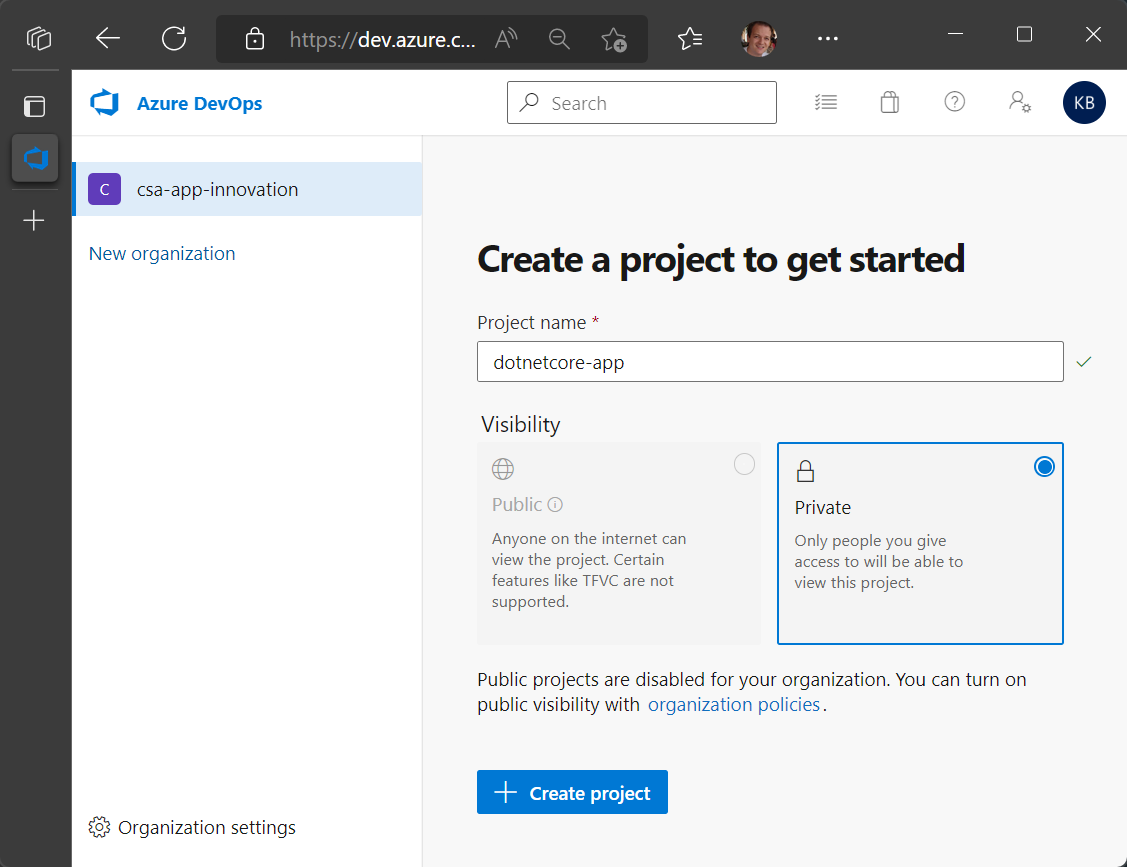
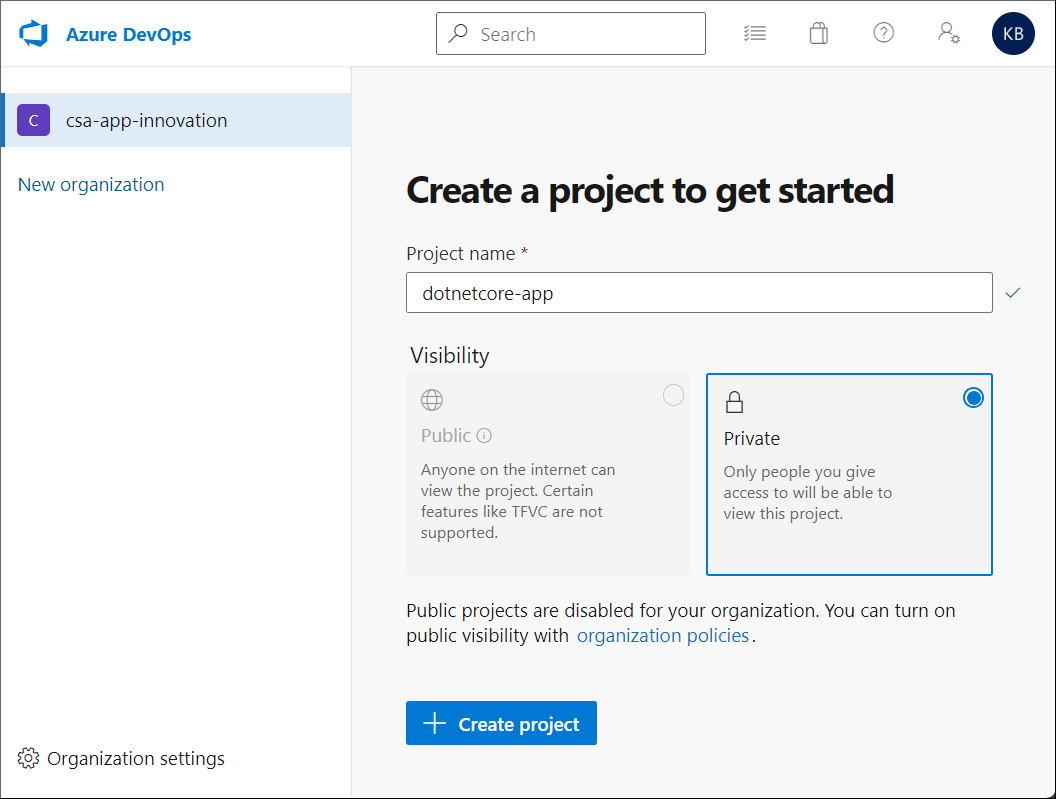
Images resize

diff --git a/README.md b/README.md
@@ -1,4 +1,4 @@
-# Azure DevOps Self-hosted agent
+# Azure DevOps Self-hosted agents
 
 An agent that you set up and manage on your own to run jobs is a self-hosted agent.
 
@@ -13,11 +13,11 @@ Sign up for an Azure DevOps organization and Azure Pipelines to begin managing C
 
 1. Log into your Microsoft account.
 
-   ![Microsoft Account](/images/microsoft_account.png)
+   <img src="./images/ado-microsoft_account.png" width="350">
 
 2. Enter a name for your organization, select a host location from the drop-down menu, enter the characters you see, and then select **Continue**.
 
-   ![Create ADO Organization](/images/ado-organization.png)
+   <img src="./images/ado-organization.png" width="350">
 
    > Use the following URL to sign in to your organization at any time: https://dev.azure.com/{yourorganization}
 
@@ -45,6 +45,7 @@ This article describes how to [Create the Azure DevOps Agent](https://learn.micr
 - [Self-hosted agents on Kubernetes](#self-hosted-agents-on-kubernetes)
 
 
+<br><br>
 ### Self-hosted agents on **Docker**
 
 To be successful and get the most of this section, you are encouraged to have the [Docker Runtime](https://docs.docker.com/docker-for-windows/install/) ready.
@@ -54,27 +55,25 @@ To be successful and get the most of this section, you are encouraged to have th
 
 1. Go to your organization and select **Organization settings**.
 
-   ![ADO Organization Settings](/images/ado-organization_settings.png)
+   ![ADO Organization Settings](/images/docker-organization_settings.png)
 
 2. Select **Agent pools** in the left panel under **Pipelines**.
 
-   ![ADO Organization Settings Agent pools](/images/ado-organization_settings_agent_pools.png)
+   ![ADO Organization Settings Agent pools](/images/docker-organization_settings-agent_pools.png)
 
 3. Select **Add pool**.
 
-4. Select **Self-hosted** for **Pool type**, type **Docker** as the **Name** of the agent pool and select **Create**.
+4. Select **Self-hosted** for **Pool type**, type **Docker-pool** as the **Name** of the agent pool and select **Create**.
 
-   ![ADO Organization Settings Add Agent pools](/images/ado-organization_settings_agent_pools-add.png)
+   <img src="./images/docker-organization_settings-agent_pools-add.png" width="350">
 
-5. See the agent pool **Docker**.
+5. Create in your machine a directory of your choice and navigate into it.
 
-   ![ADO Agent Pool Docker](/images/ado-agent_pool-docker.png)
+   > Picture for example only.
 
-6. Create a directory of your choice and navigate into it.
+   ![Doker dir](/images/docker-local_dir.png)
 
-   ![Doker dir](/images/ado-agent_pool-docker-dir.png)
-
-7. Save the following content to file **```Dockerfile```**.
+6. Save the following content to file **```Dockerfile```**.
 
     ```
     FROM ubuntu:20.04
@@ -105,7 +104,7 @@ To be successful and get the most of this section, you are encouraged to have th
     ENTRYPOINT [ "./start.sh" ]
     ```
 
-8. Save the following content to file **```start.sh```**.
+7. Save the following content to file **```start.sh```**.
 
     ```
     #!/bin/bash
@@ -204,49 +203,49 @@ To be successful and get the most of this section, you are encouraged to have th
     ./run-docker.sh "$@" & wait $!
     ```
 
-9. Build the container with the ADO agent software.
+8. Build the container and push it into a Container Registry repository of your choice.
 
+   ```console
+   docker build -t kledsonhugo/adoagent:latest .
+   docker push kledsonhugo/adoagent:latest
+   ```
 
-    ```console
-    docker build -t adoagent-docker:latest .
-    ```
+   > **Warning**
 
-10. Run the container.
+   > Replace ```kledsonhugo``` by your Container Registry account.
 
-    ```console
-    docker run \
-    -e AZP_URL=$AZP_URL \
-    -e AZP_TOKEN=$AZP_TOKEN \
-    -e AZP_POOL=Docker \
-    adoagent-docker:latest
-    ```
+9. Run the container.
 
-    > **Warning**
+   ```console
+   docker run \
+   -e AZP_URL=$AZP_URL \
+   -e AZP_TOKEN=$AZP_TOKEN \
+   -e AZP_POOL=Docker-pool \
+   kledsonhugo/adoagent:latest
+   ```
 
-    > You need to control your ADO url and token using environment variables.
+   > **Warning**
 
-    > Command above is for example only. Replace with proper values.
+   > You need replace ```$AZP_URL``` and ```$AZP_TOKEN``` with your ADO url and token.
 
-    | Env Var | Description |
-    |----------|---------------|
-    | `AZP_URL` | The URL of the Azure DevOps or Azure DevOps Server instance. |
-    | `AZP_TOKEN` | [Personal Access Token](https://learn.microsoft.com/en-us/azure/devops/organizations/accounts/use-personal-access-tokens-to-authenticate?view=azure-devops&amp%3Btabs=Windows&tabs=Windows) (PAT) with Agent Pools (read, manage) scope, created by a user who has permission to configure agents, at AZP_URL. |
+   > Replace ```kledsonhugo``` by your Container Registry account.
 
-17. Validate if the container agent is connected.
+   | Env Var | Description |
+   |----------|---------------|
+   | `AZP_URL` | The URL of the Azure DevOps or Azure DevOps Server instance. |
+   | `AZP_TOKEN` | [Personal Access Token](https://learn.microsoft.com/en-us/azure/devops/organizations/accounts/use-personal-access-tokens-to-authenticate?view=azure-devops&amp%3Btabs=Windows&tabs=Windows) (PAT) with Agent Pools (read, manage) scope, created by a user who has permission to configure agents, at AZP_URL. |
 
-    ![ADO agent listening](/images/ado-agent_pool-docker-run-listening.png)
+10. Go to your **Organization settings**, select **Agent pools** and select **Docker-pool**.
 
-18. Go to your **Organization settings**, select **Agent pools** and select **Docker**.
+11. You should now see your Docker containers connected in the **Agents** menu.
 
-19. You should now see your Kubernetes pods connected in the **Agents** menu.
+    ![ADO agent pool with connected agent](/images/docker-agents_connected.png)
 
-    ![ADO agent pool with connected agent](/images/ado-agent_pool-docker-connected_agent.png)
-
-20. You can start more container agents as needed.
+    > You can run multiple containers in paralel as you want. In the picture there are 2 running as example.
 
 </details>
 
-
+<br><br>
 ### Self-hosted agents on **Kubernetes**
 
 A [Kubernetes](https://kubernetes.io/docs/tasks/tools/) active software is required to perform this setion.
@@ -256,27 +255,25 @@ A [Kubernetes](https://kubernetes.io/docs/tasks/tools/) active software is requi
 
 1. Go to your organization and select **Organization settings**.
 
-   ![ADO Organization Settings](/images/ado-organization_settings.png)
+   ![ADO Organization Settings](/images/docker-organization_settings.png)
 
 2. Select **Agent pools** in the left panel under **Pipelines**.
 
-   ![ADO Organization Settings Agent pools](/images/ado-organization_settings_agent_pools.png)
+   ![ADO Organization Settings Agent pools](/images/docker-organization_settings-agent_pools.png)
 
 3. Select **Add pool**.
 
-4. Select **Self-hosted** for **Pool type**, type **Kubernetes** as the **Name** of the agent pool and select **Create**.
+4. Select **Self-hosted** for **Pool type**, type **Kubernetes-pool** as the **Name** of the agent pool and select **Create**.
 
-   ![ADO Organization Settings Add Agent pools](/images/ado-organization_settings_agent_pools-add-kubernetes.png)
+   <img src="./images/kubernetes-organization_settings-agent_pools-add.png" width="350">
 
-5. See the agent pool **Kubernetes**.
+5. Create in your machine a directory of your choice and navigate into it.
 
-   ![ADO Agent Pool Docker](/images/ado-agent_pool-kubernetes.png)
+   > Picture for example only.
 
-6. Create a directory of your choice and navigate into it.
+   ![Doker dir](/images/kubernetes-local_dir.png)
 
-   ![Kubernetes dir](/images/ado-agent_pool-kubernetes-dir.png)
-
-7. Save the following content to file **```Dockerfile```**.
+6. Save the following content to file **```Dockerfile```**.
 
     ```
     FROM ubuntu:20.04
@@ -307,7 +304,7 @@ A [Kubernetes](https://kubernetes.io/docs/tasks/tools/) active software is requi
     ENTRYPOINT [ "./start.sh" ]
     ```
 
-8. Save the following content to file **```start.sh```**.
+7. Save the following content to file **```start.sh```**.
 
     ```
     #!/bin/bash
@@ -406,86 +403,76 @@ A [Kubernetes](https://kubernetes.io/docs/tasks/tools/) active software is requi
     ./run-docker.sh "$@" & wait $!
     ```
 
-9. Build the container with the ADO agent software.
+8. Build the container and push it into a Container Registry repository of your choice.
 
+   ```console
+   docker build -t kledsonhugo/adoagent:latest .
+   docker push kledsonhugo/adoagent:latest
+   ```
 
-    ```console
-    docker build -t adoagent-kubernetes:latest .
-    ```
+   > **Warning**
 
-10. Tag and push the container image into a Container Registry repository of your choice. We are using Docker Hub here. Feel free to use yours.
+   > Replace ```kledsonhugo``` by your Container Registry account.
 
-    ```console
-    docker image tag adoagent-kubernetes:latest kledsonhugo/adoagent-kubernetes:latest
-    docker push kledsonhugo/adoagent-kubernetes:latest
-    ```
-    > **Warning**
+9. Save the following content to file **```deployment.yml```**.
 
-    > Replace the Docker Hub account ```kledsonhugo``` by your Container Registry account.
+   ```
+   apiVersion: apps/v1
+   kind: Deployment
+   metadata:
+   name: adoagent-deployment
+   spec:
+   selector:
+       matchLabels:
+       app: adoagent
+   replicas: 2
+   template:
+       metadata:
+       labels:
+           app: adoagent
+       spec:
+       containers:
+       - name: adoagent
+           image: kledsonhugo/adoagent:latest
+           env:
+           - name: AZP_URL
+             value: https://dev.azure.com/csu-csa-appinnovation
+           - name: AZP_TOKEN
+             value: XXXXXXXXXXXXXXXXXXXXXXXXXXXXX
+           - name: AZP_POOL
+             value: Kubernetes-pool
+   ```
 
-11. Save the following content to file **```deployment.yml```**.
+   > **Warning**
 
-    ```
-    apiVersion: apps/v1
-    kind: Deployment
-    metadata:
-    name: adoagent-deployment
-    spec:
-    selector:
-        matchLabels:
-        app: adoagent
-    replicas: 2
-    template:
-        metadata:
-        labels:
-            app: adoagent
-        spec:
-        containers:
-        - name: adoagent
-            image: kledsonhugo/adoagent-kubernetes:latest
-            env:
-            - name: AZP_URL
-            value: https://dev.azure.com/csa-app-innovation
-            - name: AZP_TOKEN
-            value: XXXXXXXXXXXXXXXXXXXXXXXXXXXXX
-            - name: AZP_POOL
-            value: Kubernetes
-    ```
+   > You need replace the var values for ```$AZP_URL``` and ```$AZP_TOKEN``` with your ADO url and token.
 
-    > **Warning**
+   > Replace ```kledsonhugo``` by your Container Registry account.
 
-    > You need to control your Azure ADO url and token using environment variables.
+   | Env Var | Description |
+   |----------|---------------|
+   | `AZP_URL` | The URL of the Azure DevOps or Azure DevOps Server instance. |
+   | `AZP_TOKEN` | [Personal Access Token](https://learn.microsoft.com/en-us/azure/devops/organizations/accounts/use-personal-access-tokens-to-authenticate?view=azure-devops&amp%3Btabs=Windows&tabs=Windows) (PAT) with Agent Pools (read, manage) scope, created by a user who has permission to configure agents, at AZP_URL. |
 
-    > Replace file content with proper values.
-
-    | Env Var | Description |
-    |----------|---------------|
-    | `AZP_URL` | The URL of the Azure DevOps or Azure DevOps Server instance. |
-    | `AZP_TOKEN` | [Personal Access Token](https://learn.microsoft.com/en-us/azure/devops/organizations/accounts/use-personal-access-tokens-to-authenticate?view=azure-devops&amp%3Btabs=Windows&tabs=Windows) (PAT) with Agent Pools (read, manage) scope, created by a user who has permission to configure agents, at AZP_URL. |
-
-12. Deploy the Kubernetes pods.
+10. Deploy the Kubernetes pods.
 
     ```console
     kubectl apply -f deployment.yml
     ```
 
-13. Validate if the Kubernetes pods are running.
+11. Validate if the Kubernetes pods are running with command ```kubectl get pods -o wide```.
 
-    ![ADO agent running](/images/ado-agent_pool-kubernetes-running.png)
+    ![ADO agent running](/images/kubernetes-pods_running.png)
 
-14. Validate if the ADO agent is listening inside the Kubernetes pods.
+12. Go to your **Organization settings**, select **Agent pools** and select **Kubernetes-pool**.
 
-    ![ADO agent connected](/images/ado-agent_pool-kubernetes-connected.png)
+12. You should now see your Kubernetes pods connected in the **Agents** menu.
 
-15. Go to your **Organization settings**, select **Agent pools** and select **Kubernetes**.
+    ![ADO agent connected](/images/kubernetes-agents_connected.png)
 
-16. You should now see your container agent connected in the **Agents** menu.
+    > You can run multiple pods as you want. In the picture there are 2 online as example only.
 
-    ![ADO agent pool with connected agent](/images/ado-agent_pool-kubernetes-connected_agent.png)
-
-17. You can scale the Kubernetes pods as needed.
 </details>
-
 
 <br><br>
 ## Create project pipeline for Self-hosted agents
@@ -502,11 +489,11 @@ Microsoft Learn allows [Create a build pipeline with Azure Pipelines](https://le
 
 5. Select **Empty pipeline** then **Apply**.
 
-6. Select **Kubernetes** for **Agent pool**, click the plus signal on **Agent job 1** and select **Command line**. In the **Triggers** menu, select **Enable continuous integration**, then click **Save & queue**.
+6. Select **Kubernetes-pool** for **Agent pool**, click the plus signal on **Agent job 1** and select **Command line**. In the **Triggers** menu, select **Enable continuous integration**, then click **Save & queue**.
 
-   ![ADO pipeline 1](/images/ado-pipeline-1.png)
+   ![ADO pipeline Tasks](/images/ado-pipeline-tasks.png)
 
-   ![ADO pipeline 2](/images/ado-pipeline-2.png)
+   ![ADO pipeline Trigger](/images/ado-pipeline-trigger.png)
 
 7. Type a comment and select **Save and run**.
 
